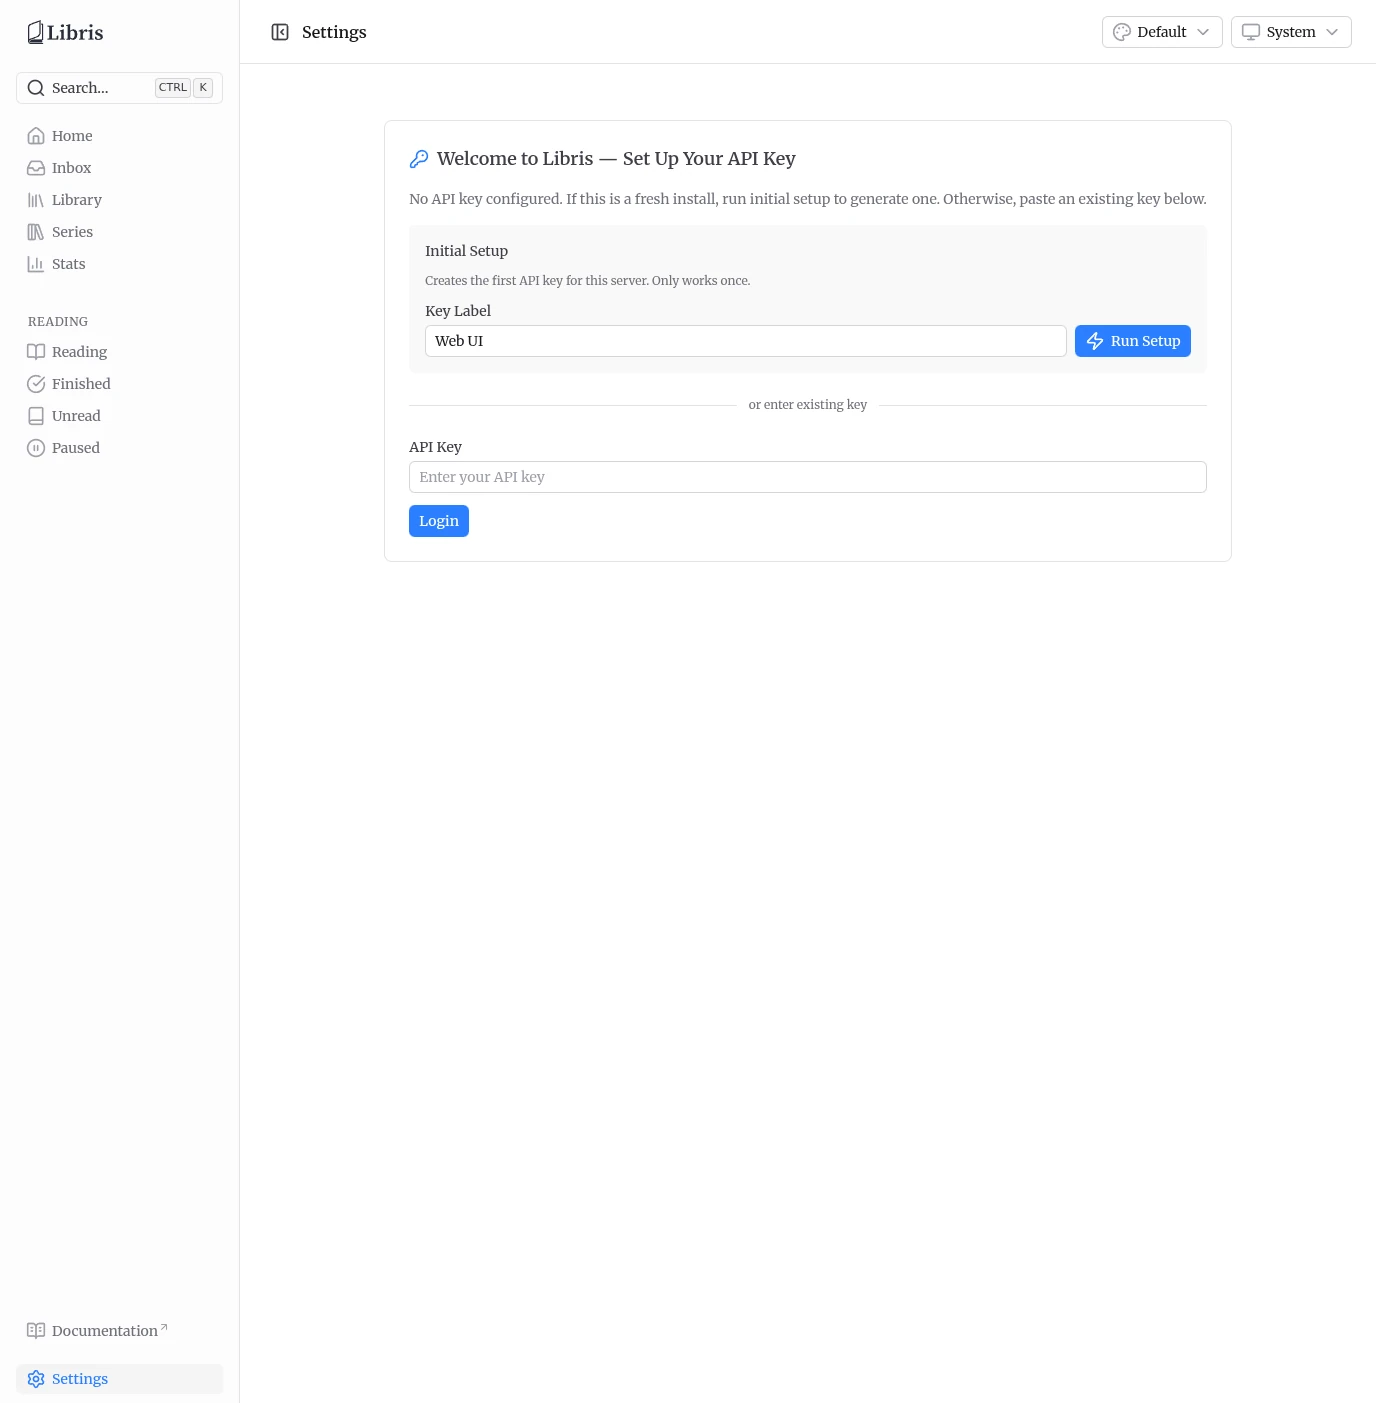
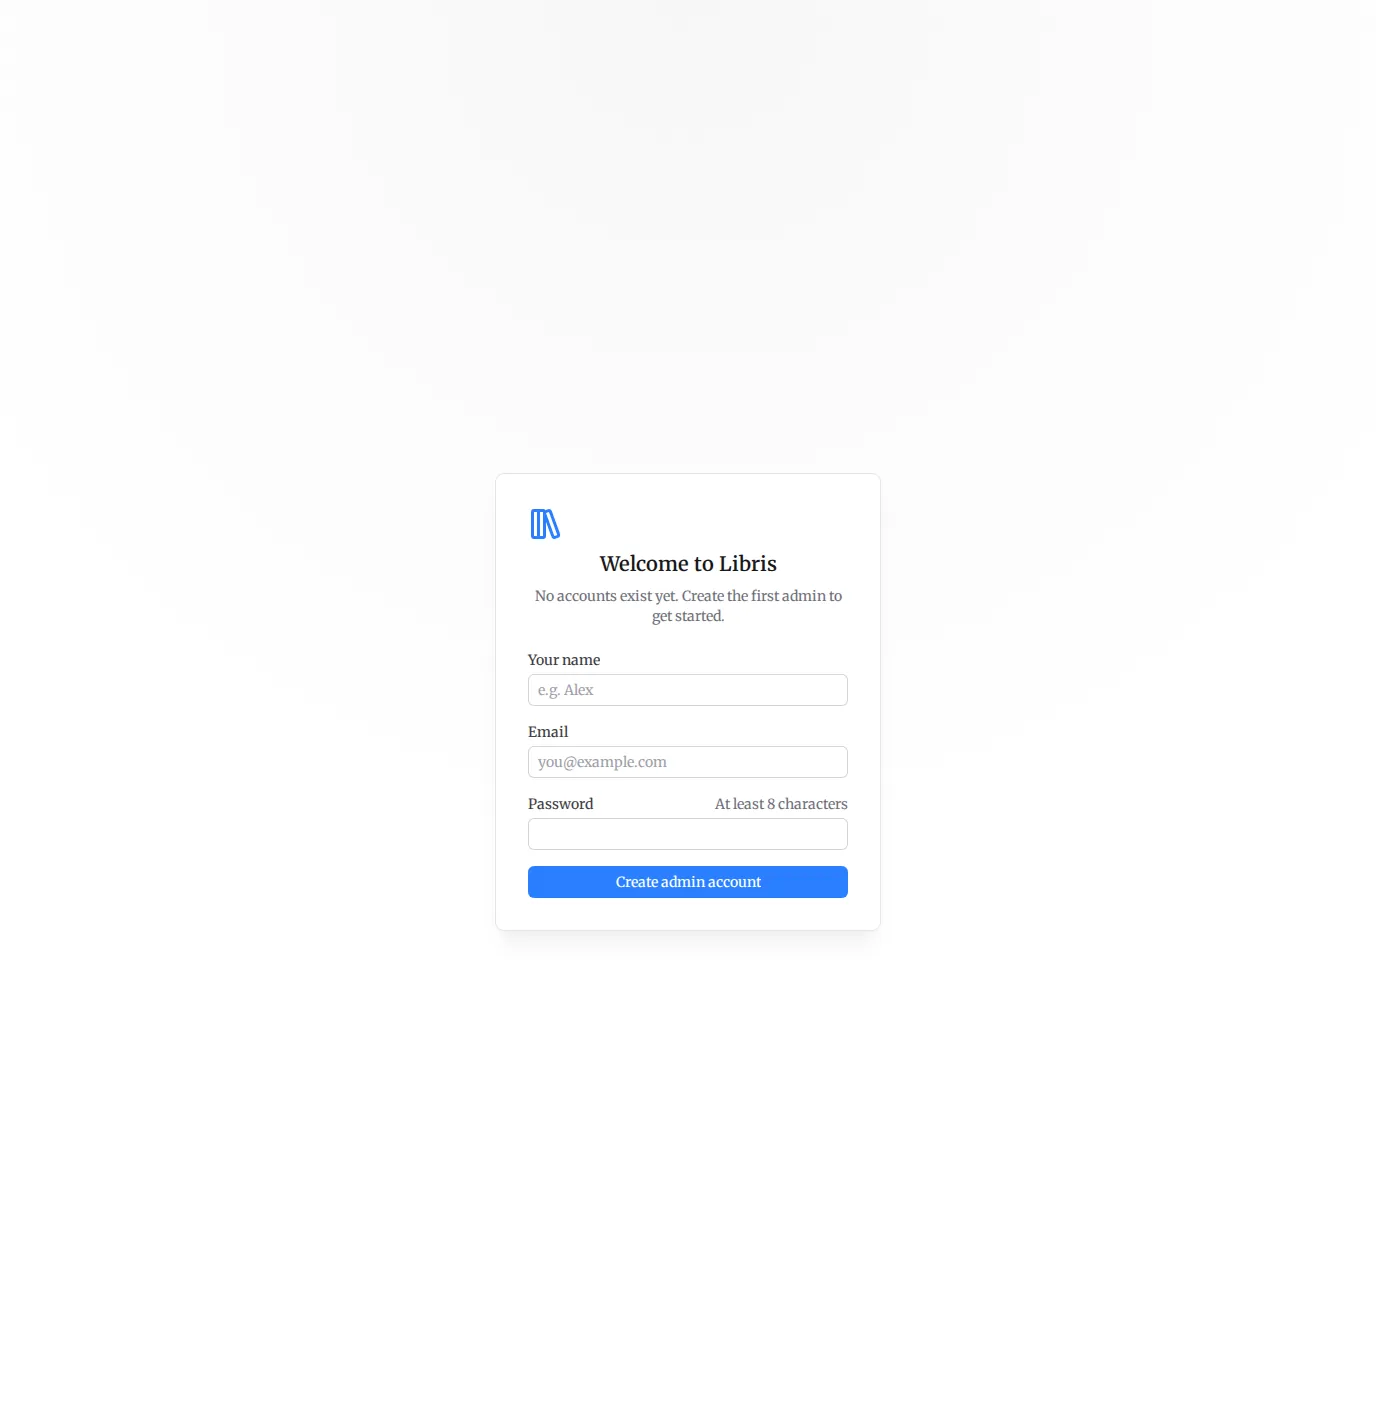
docs(guide): re-shoot the screenshots that showed the deleted API-key UI (libris-xfh)
libris-59m.35 removed four screenshot references rather than update them,
leaving the Settings chapter with no pictures of the tabs it describes and
four orphaned .webp files on disk.

Captured against a seeded install driven through the E2E harness (a
throwaway Playwright spec, not committed):

- initial-setup.webp   - the first-run form on an empty install
- settings-connections.webp - Connections, three paired devices, KoSync set
- settings-account.webp (new) - Profile, Password, two signed-in browsers
- settings-users.webp   (new) - Users, a four-person household

Deleted settings-api-keys.webp and setup-complete.webp: both document a flow
that no longer exists. All four new images are 1376x1403 lossy WebP, matching
the rest of the guide, and contain no credential value.

diff --git a/docs/guide/settings.md b/docs/guide/settings.md
@@ -20,6 +20,8 @@ This page covers Connections, Account, Users, System, and Paths. The Jobs / Fail
 
 The Connections tab is where you wire up the devices and services that reach this server. It has four sections, in this order: **App Passwords**, **OPDS Catalog**, **KoSync**, and **Hardcover**. App passwords come first because the two sections below need one.
 
+![Settings - Connections tab](./images/settings-connections.webp)
+
 ### App Passwords
 
 An app password is the credential a device or script uses, so your account password never has to leave the browser. Name the device, click **Create app password**, and copy the value — it is shown once and cannot be retrieved later. Revoking a row stops it working on the very next request.
@@ -89,6 +91,8 @@ This is the first place to look if ingestion seems stuck. If a queue shows faile
 
 Everyone has this tab; nothing on it is an admin concern. It has three sections.
 
+![Settings - Account tab](./images/settings-account.webp)
+
 **Profile** — edit your display name. Your email address is shown but read-only: the server does not support changing it, and an editable field would be a promise it does not keep.
 
 **Password** — change your own password. You must enter your current one, and confirm the new one. A checkbox offers **Sign out everywhere else**, which ends every other browser session and re-issues this one a fresh cookie. Your app passwords deliberately survive it — they are separate credentials with their own revoke buttons on the Connections tab, and silently unpairing every e-reader in the house would be a worse surprise.
@@ -102,6 +106,8 @@ Signing a browser out is not the same as revoking an app password, and the confi
 ## Users (admin only)
 
 Accounts are created here and nowhere else — there is no self-registration, and no password-reset email.
+
+![Settings - Users tab](./images/settings-users.webp)
 
 **Add someone** takes a name, an email, an initial password of at least 8 characters, and a role (User or Admin). Pass the password to them out of band; they can change it themselves from their Account tab.
 

diff --git a/docs/guide/getting-started.md b/docs/guide/getting-started.md
@@ -13,6 +13,8 @@ Open Libris in a browser. While you are signed out, `/login` is the only route y
 
 On a brand-new install that page offers a **first-run setup form** instead of the sign-in form. It decides which to show by asking the server whether anybody on this install can sign in with a password yet.
 
+![First-run setup form on an empty install](./images/initial-setup.webp)
+
 Fill in three fields:
 
 - **Your name** — how you are shown in the sidebar and on uploader attributions.
@@ -48,6 +50,8 @@ The role lives on the person, not on a credential, so promoting someone applies 
 
 There is no self-registration. An admin adds people from **Settings → Users → Add someone**: name, email, an initial password of at least 8 characters, and a role. Click **Create account** and pass the password to them out of band — they can change it themselves from **Settings → Account**.
 
+![Settings - Users tab](./images/settings-users.webp)
+
 Each row in the user list carries three actions:
 
 - **Make admin / Make user** — flips the role.
@@ -69,6 +73,8 @@ Unbanning restores the account, but **not** the app passwords. The disabled rows
 ## Pairing an E-Reader: App Passwords
 
 Your account password is for the browser. Devices and scripts get their own credential — an **app password** — from **Settings → Connections → App Passwords**.
+
+![Settings - Connections tab, with three paired devices](./images/settings-connections.webp)
 
 1. Type a name for the device in **Name this device** (for example `Kobo Clara` or `laptop script`). Names are capped at 32 characters.
 2. Click **Create app password**.

diff --git a/.changeset/verify-docs-guide-screenshots.md b/.changeset/verify-docs-guide-screenshots.md
@@ -1,0 +1,32 @@
+---
+"@libris/docs": patch
+---
+
+Re-shoot the user-guide screenshots that showed the deleted API-key UI
+(libris-xfh).
+
+`libris-59m.35` rewrote the guide but had to _remove_ four screenshot references
+rather than update them, because they still showed the pre-Better-Auth surface:
+an "API Keys" tab, a setup flow that ended by handing you a key to copy down.
+The files stayed on disk, unreferenced, and the Settings chapter shipped with no
+pictures of the tabs it describes.
+
+Captured against a seeded install and re-referenced:
+
+- **`initial-setup.webp`** — the first-run form on a genuinely empty install, in
+  Getting Started.
+- **`settings-connections.webp`** — the Connections tab with three paired
+  devices and a configured KoSync credential, in Getting Started and Settings.
+- **`settings-account.webp`** (new) — Profile, Password and "Where you are
+  signed in" with two browsers listed, in Settings.
+- **`settings-users.webp`** (new) — the Users tab with a four-person household,
+  admin badges and the per-row actions, in Getting Started and Settings.
+
+Deleted: `settings-api-keys.webp` and `setup-complete.webp`. Both document a
+flow that no longer exists — setup now signs the first admin straight in, with
+nothing to copy down.
+
+All four are 1376x1403 lossy WebP, matching the screenshots already in the
+guide. No credential value appears in any of them: the app-password rows show
+only their labels and the non-secret prefix the UI displays by design, the
+KoSync password field is empty, and every address is `@example.test`.
